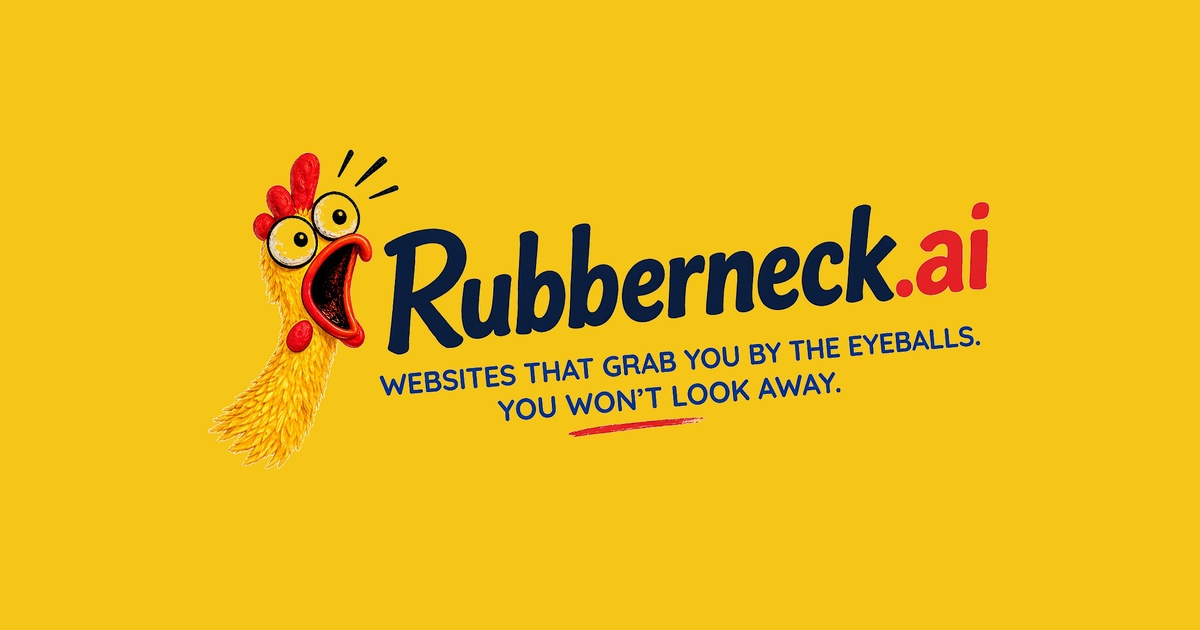
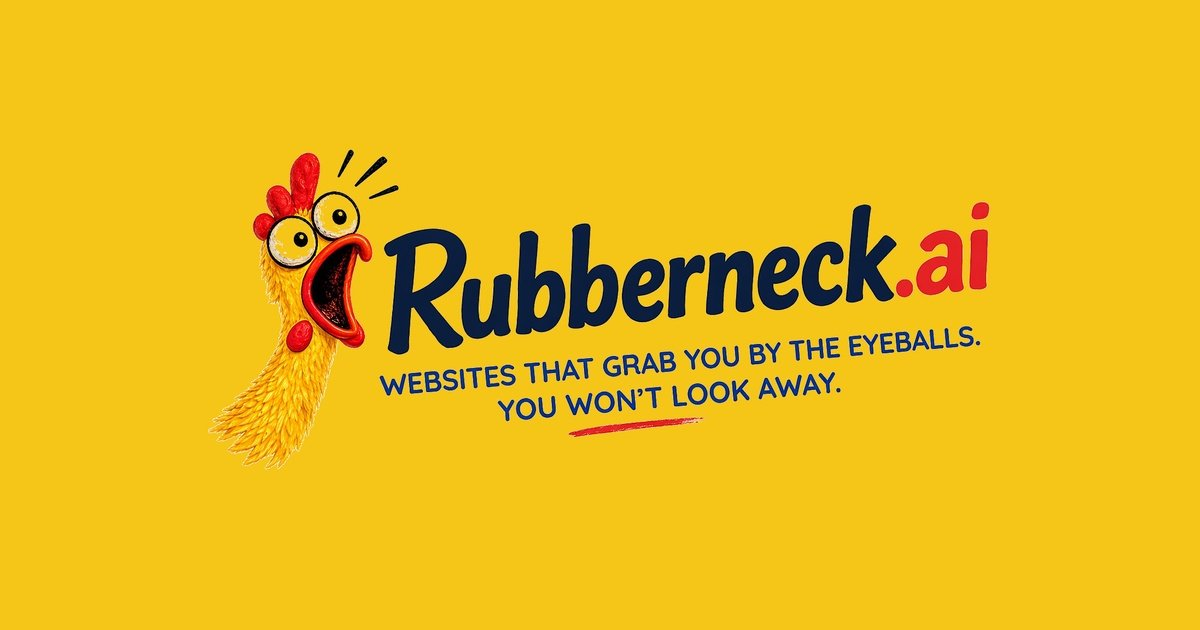
fix: og-image back to optimized JPG

Changed region(s): [[0.3083, 0.5127, 0.8325, 0.6635]]

diff --git a/pages/index.js b/pages/index.js
@@ -177,7 +177,7 @@ export default function Home() {
         <title>Rubberneck.ai — Websites That Grab You By The Eyeballs.</title>
         <meta name="description" content="One jaw-dropping website, delivered daily. You won't look away." />
         <meta name="viewport" content="width=device-width, initial-scale=1" />
-        <link rel="icon" href="/assets/favicon.png" /><meta property="og:title" content="Rubberneck.ai — Websites That Grab You By The Eyeballs." /><meta property="og:description" content="One jaw-dropping site, every day. People will stare. You're welcome." /><meta property="og:image" content="https://rubberneck.ai/assets/og-image.png" /><meta property="og:image:width" content="1200" /><meta property="og:image:height" content="630" /><meta property="og:url" content="https://rubberneck.ai" /><meta property="og:type" content="website" /><meta name="twitter:card" content="summary_large_image" /><meta name="twitter:image" content="https://rubberneck.ai/assets/og-image.png" />
+        <link rel="icon" href="/assets/favicon.png" /><meta property="og:title" content="Rubberneck.ai — Websites That Grab You By The Eyeballs." /><meta property="og:description" content="One jaw-dropping site, every day. People will stare. You're welcome." /><meta property="og:image" content="https://rubberneck.ai/assets/og-image.jpg" /><meta property="og:image:width" content="1200" /><meta property="og:image:height" content="630" /><meta property="og:url" content="https://rubberneck.ai" /><meta property="og:type" content="website" /><meta name="twitter:card" content="summary_large_image" /><meta name="twitter:image" content="https://rubberneck.ai/assets/og-image.jpg" />
       </Head>
 
       <RubberneckChicken pos={chickPos} active={chickActive} />
